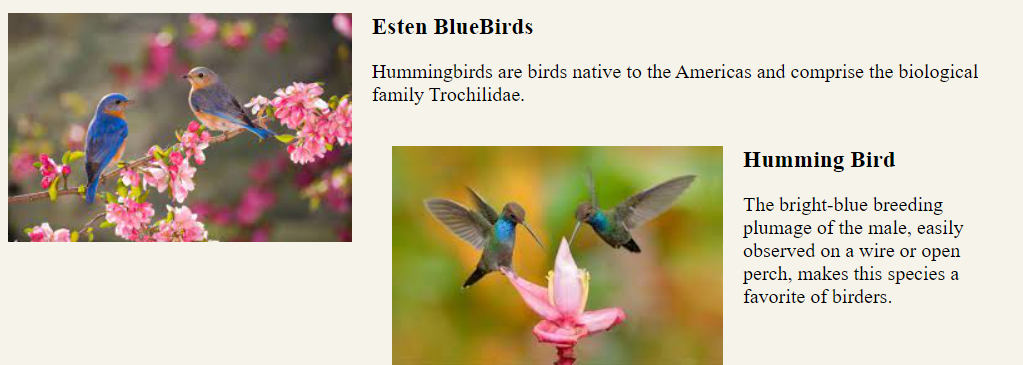
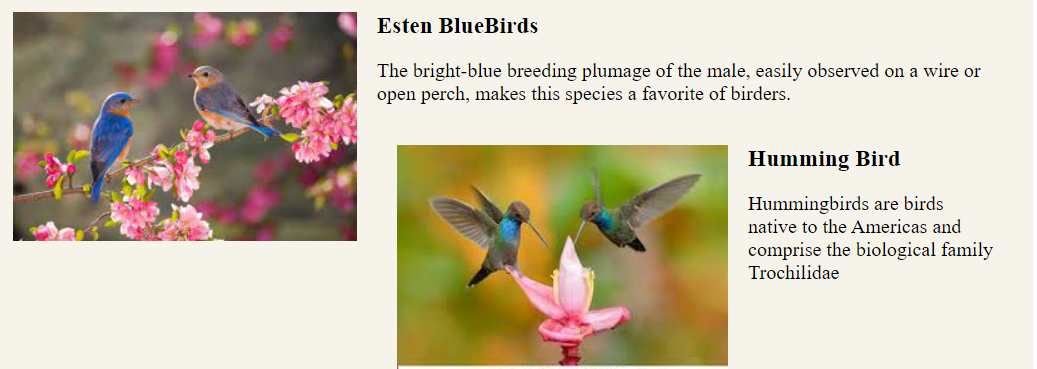
[prasanna]: designing media objects

diff --git a/pages/MediaObject.html b/pages/MediaObject.html
@@ -23,13 +23,13 @@
   <img class="media-object" src="/assets/Bird1.jpg" alt="Sample photo">
   <div class="media-body">
     <h3 class="media-heading">Esten BlueBirds</h3>
-    <p>Hummingbirds are birds native to the Americas and comprise the biological family Trochilidae.</p>
+    <p>The bright-blue breeding plumage of the male, easily observed on a wire or open perch, makes this species a favorite of birders.</p>
 
     <div class="media">
       <img class="media-object" src="/assets/Bird2.jpg" alt="Sample photo">
       <div class="media-body">
         <h3 class="media-heading">Humming Bird</h3>
-        <p>The bright-blue breeding plumage of the male, easily observed on a wire or open perch, makes this species a favorite of birders.</p>
+        <p>Hummingbirds are birds native to the Americas and comprise the biological family Trochilidae</p>
       </div>
     </div>
 
